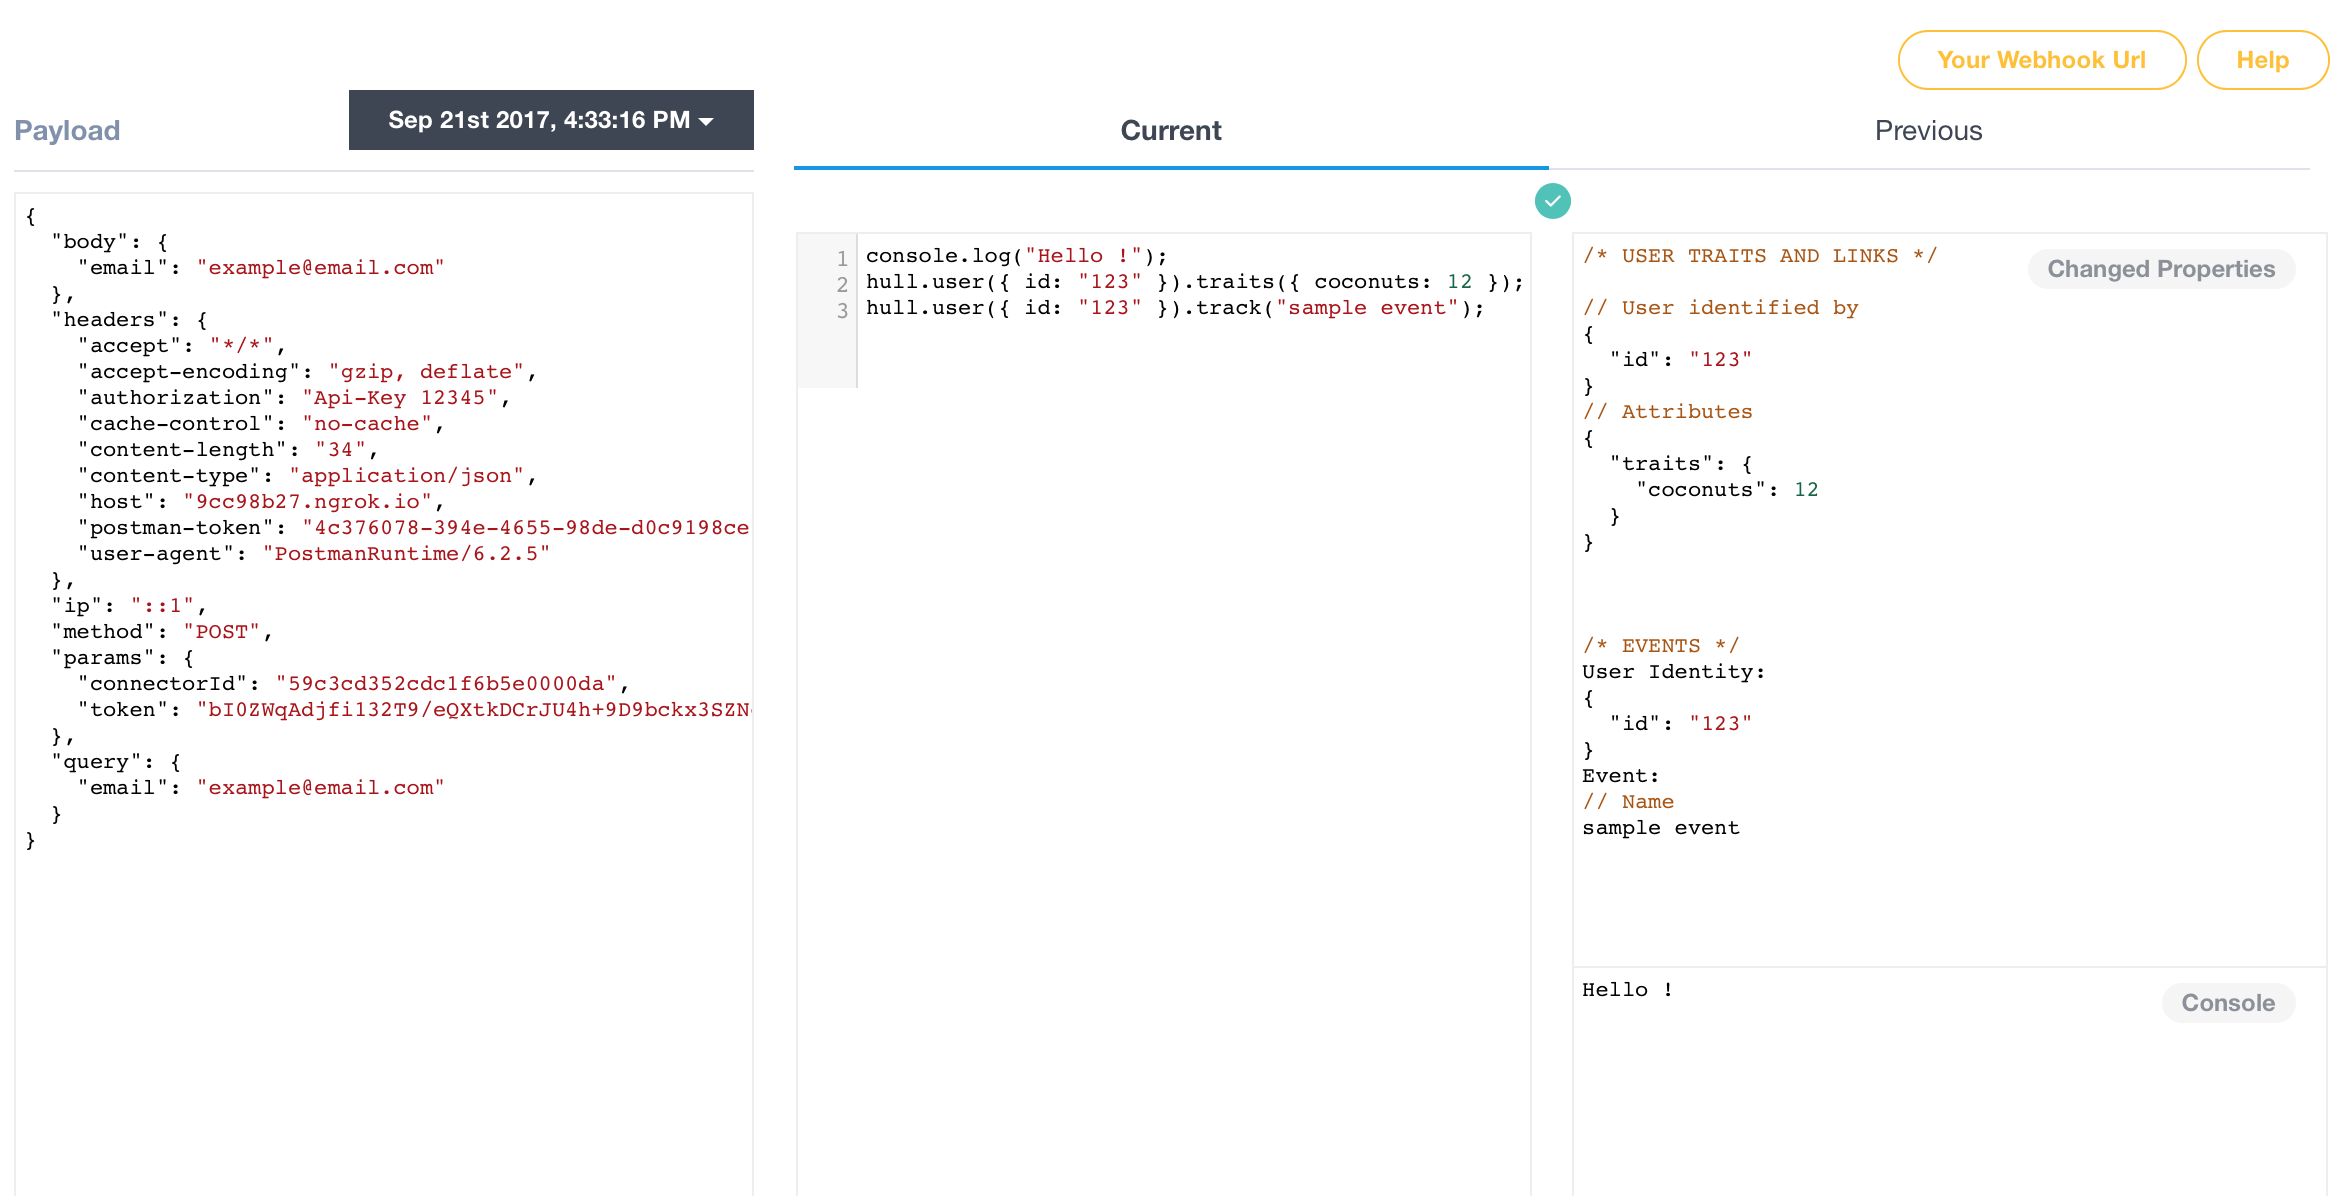
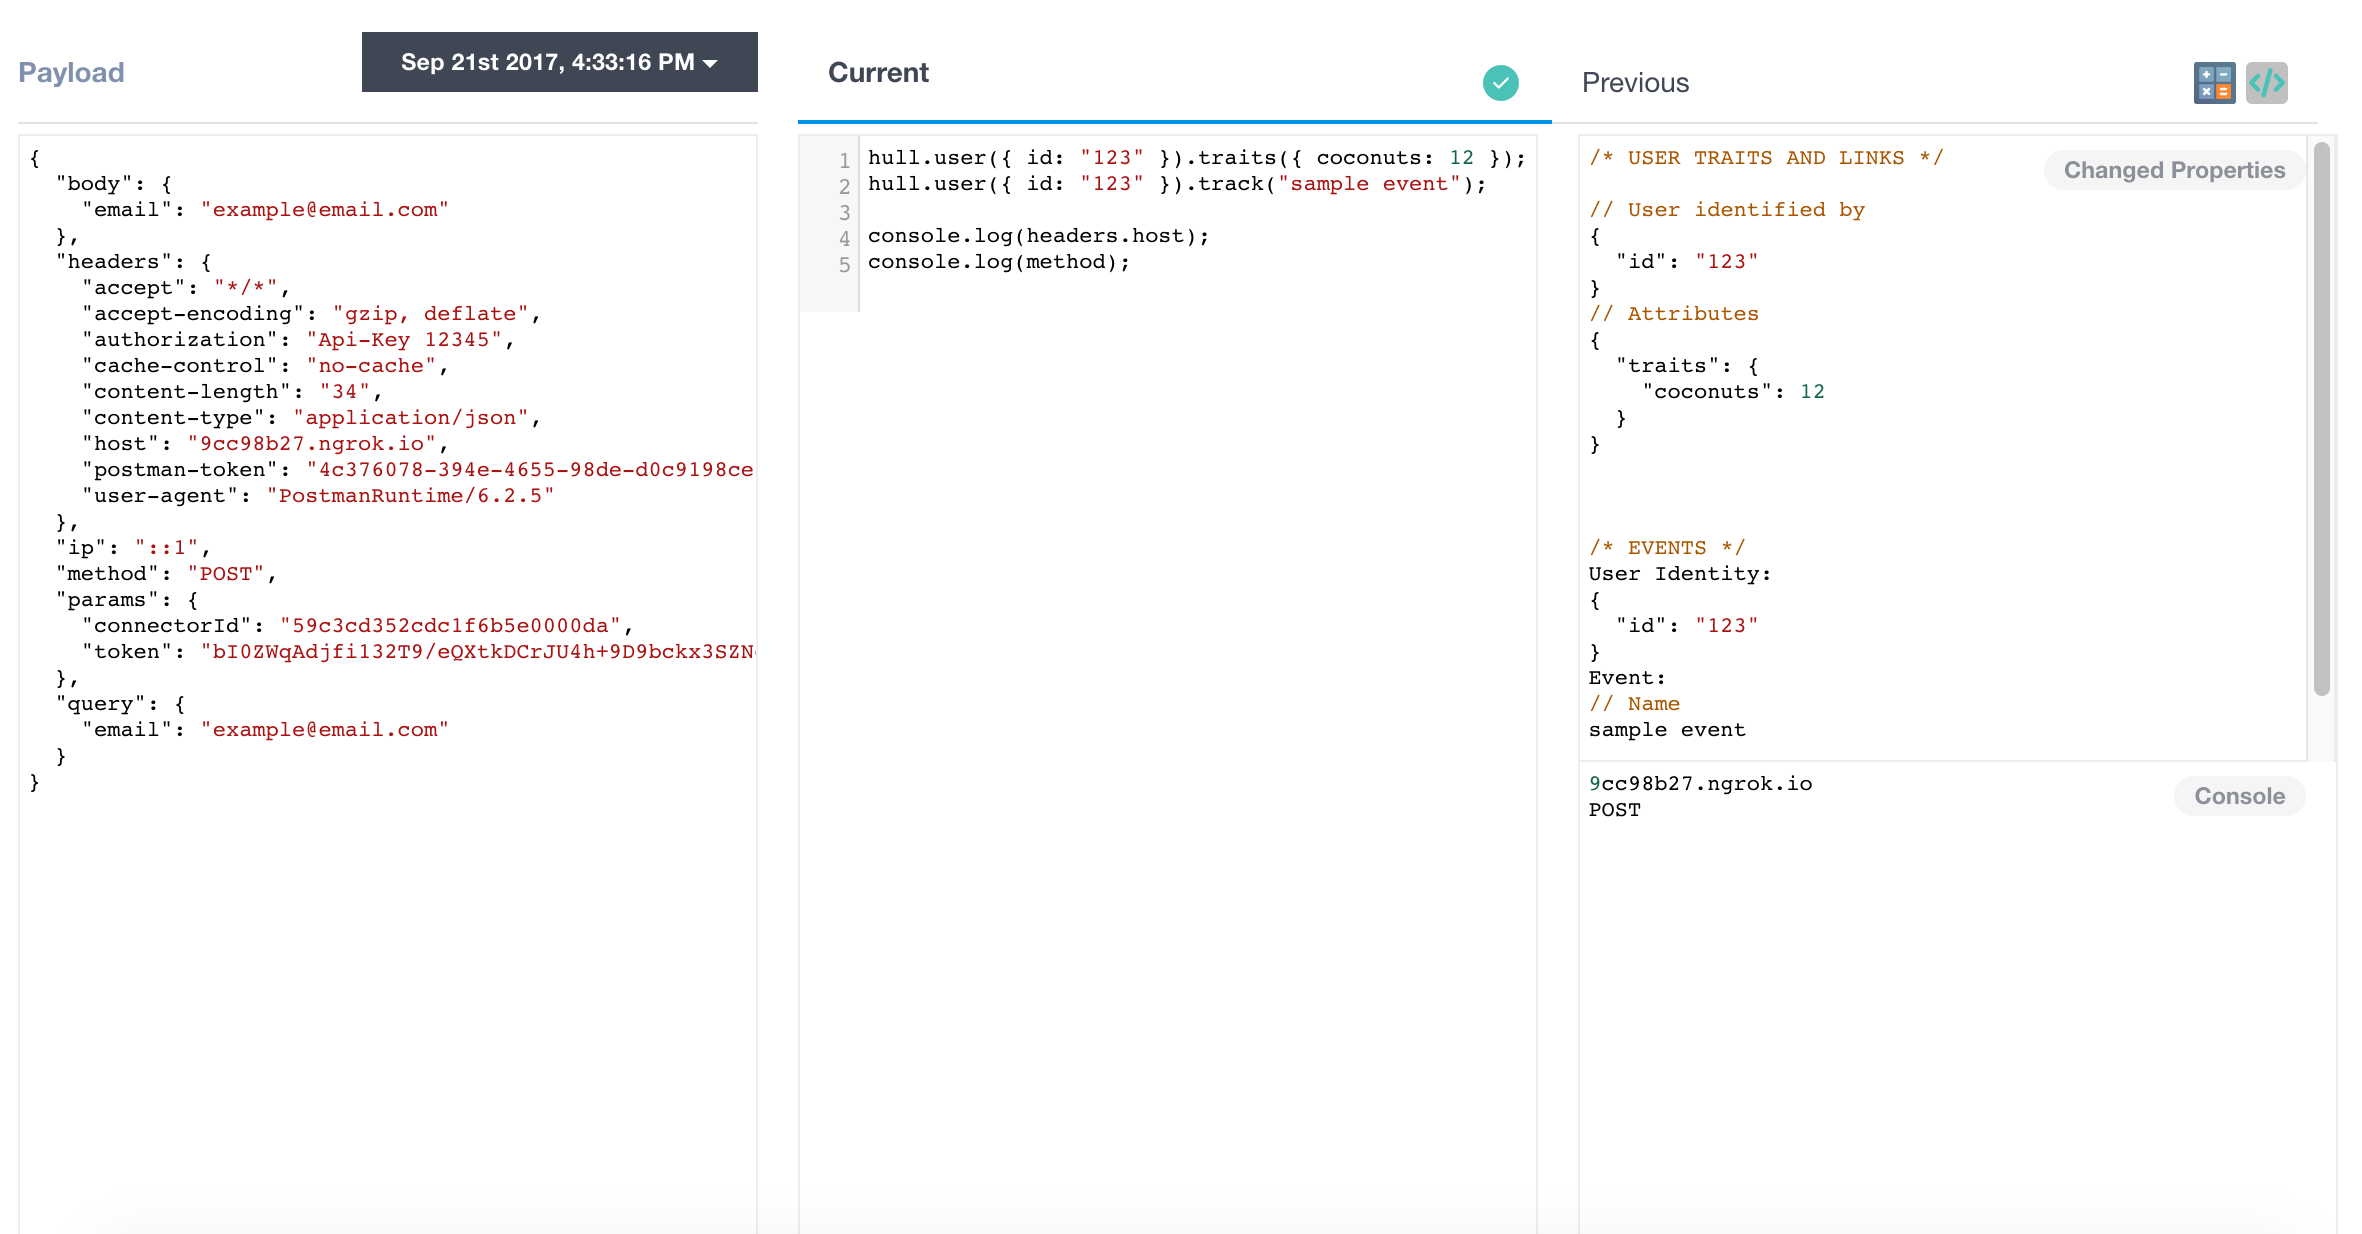
docs updates

diff --git a/src/preview/index.jsx b/src/preview/index.jsx
@@ -16,7 +16,7 @@ export default class PreviewPane extends Component {
   }
 
   getIcon() {
-    if (this.props.title === "Current") {
+    if (this.state.activeTab === "Current") {
       if (this.props.computing) {
         return "spinner";
       }
@@ -55,7 +55,6 @@ export default class PreviewPane extends Component {
         }/>
         <Tab eventKey="Previous" title={<div>
           <div className="tab-title">Previous</div>
-
 
           <WebhookUrl ship={ship} token={token} hostname={hostname} className="text-right"/>
           <Help className="text-right"/>

diff --git a/assets/readme.md b/assets/readme.md
@@ -41,7 +41,9 @@ If you send some webhooks your UI will look like this:
 
 ![Full Dashboard](./docs/dashboard.png)
 
-If you would check you your Webhook Url - we provided you special button for this occasion (right top corner of dashboard).
+If you would check you your Webhook Url - we provided you special button for this occasion (pointy brackets icon in right top corner of dashboard).
+
+Also there is a little help pop up if you would like to quickly check connector's capabilities. Just click on calculator icon in right top corner.
 
 ## Further Instructions
 
